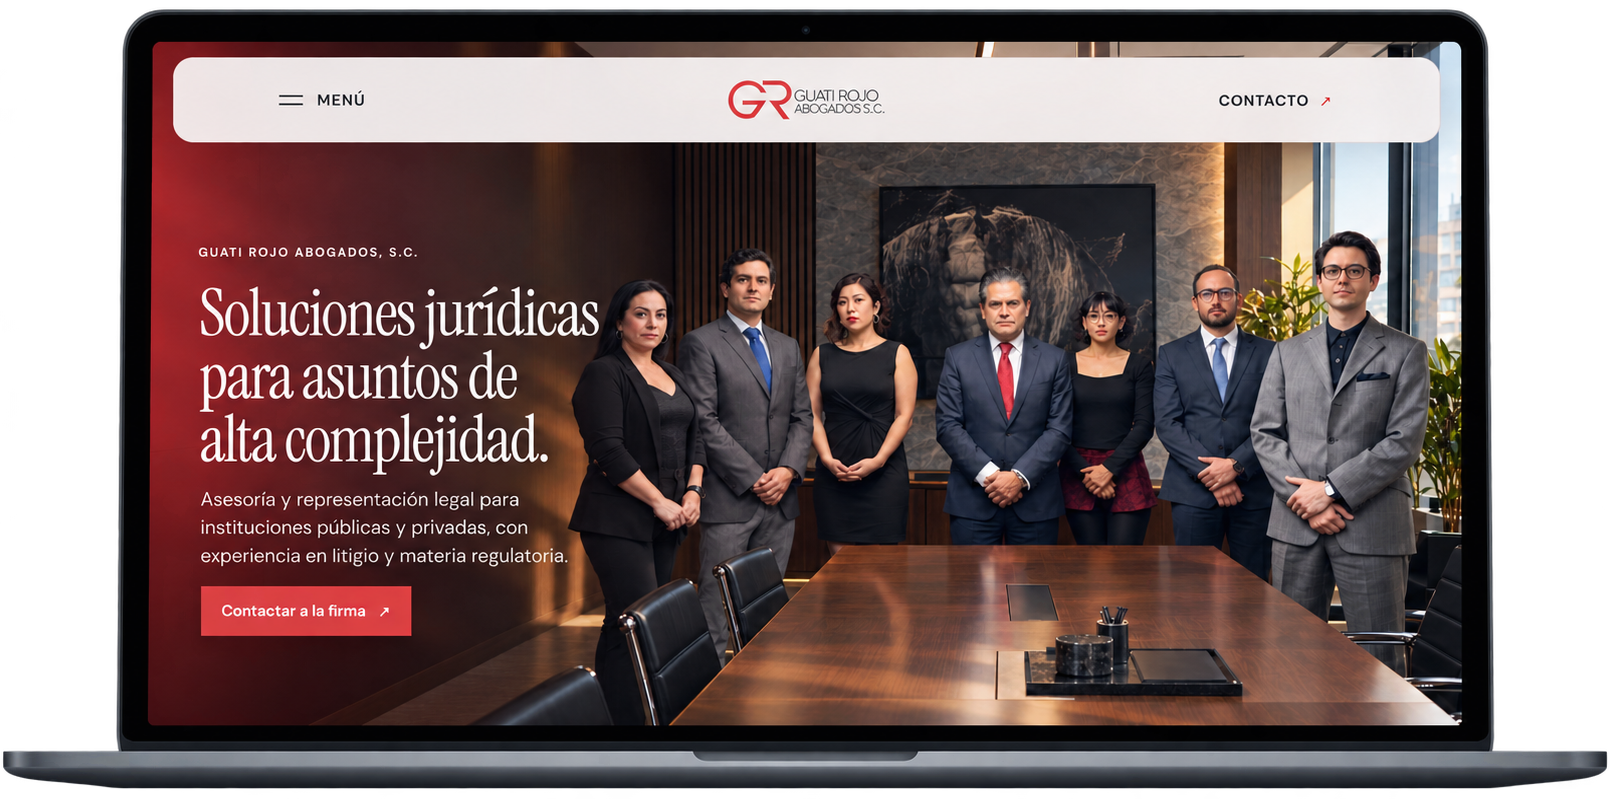
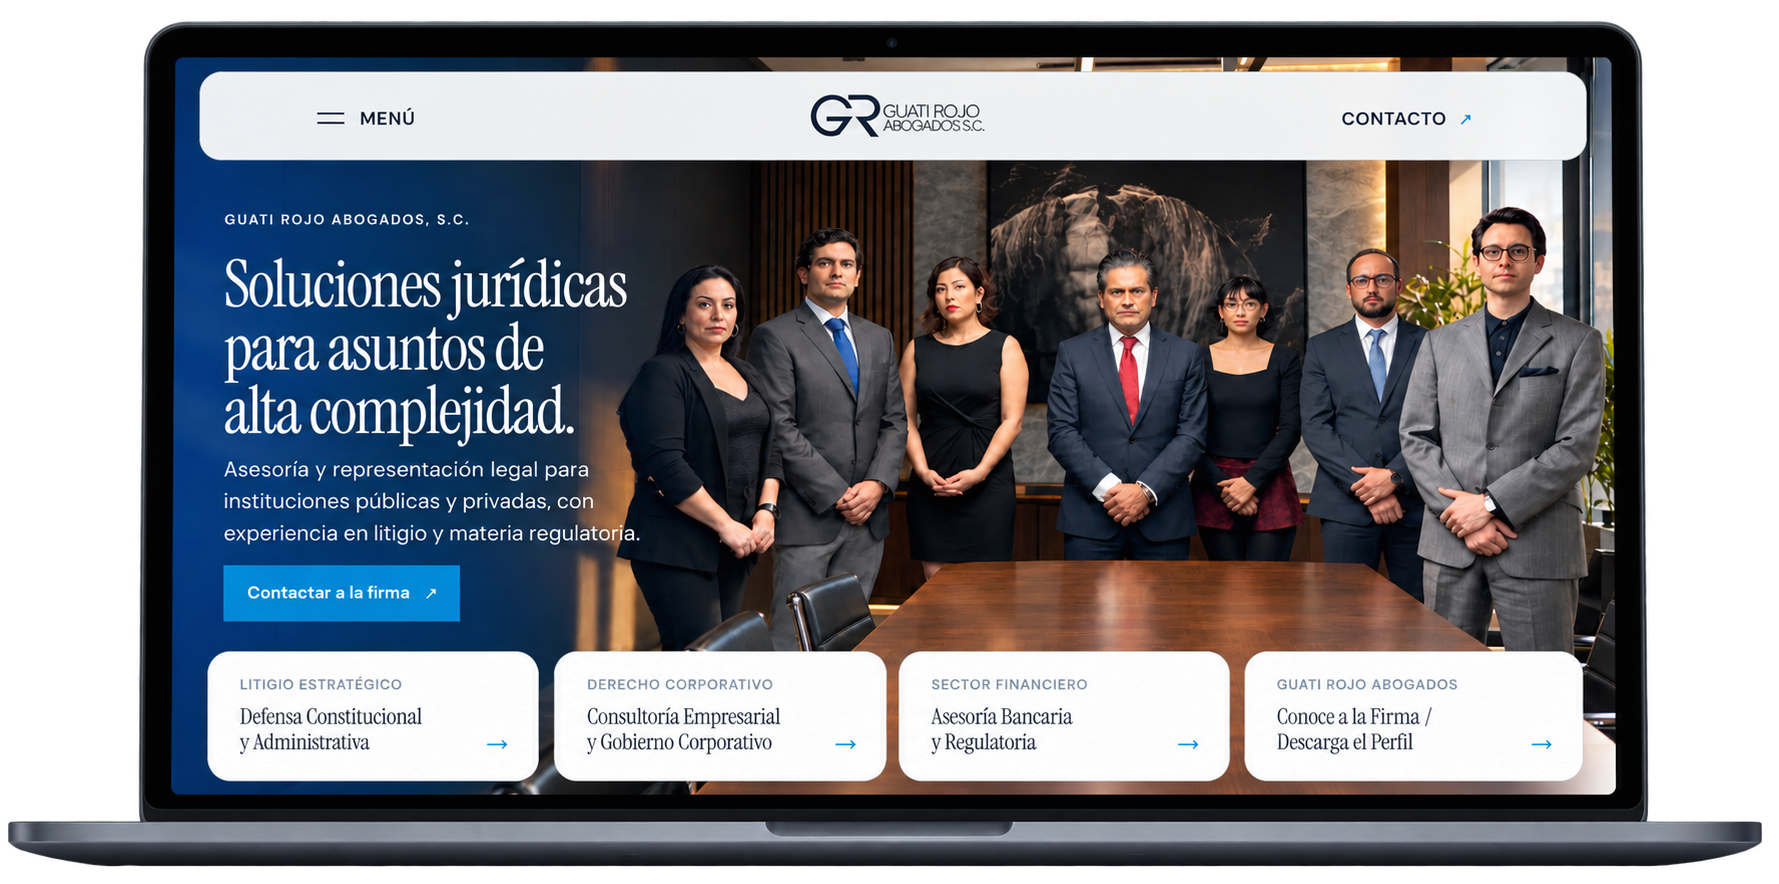
Update GRSS palette and mockups with content-based cache versions

diff --git a/src/components/guati-rojo/GuatiRojoProposal.jsx b/src/components/guati-rojo/GuatiRojoProposal.jsx
@@ -57,13 +57,13 @@ function Opportunity() {
 
 function Mockup({ kind, number, label, file }) {
   return <figure className={kind === 'desktop' ? styles.slotDesktop : styles.slotMobile} data-kind={kind}>
-    <img className={styles.mockupImage} src={`/assets/grss/${file}`} alt={`Captura ${label.toLowerCase()} de la demo publicada de GRSS`} loading="lazy" />
+    <img className={styles.mockupImage} src={`/assets/grss/${file}?v=${__GRSS_ASSET_VERSIONS__[file]}`} alt={`Captura ${label.toLowerCase()} de la demo publicada de GRSS`} loading="lazy" />
     <figcaption><span>{number}</span> / {label}</figcaption>
   </figure>;
 }
 
 function VisualDirection({ demoHref }) {
-  const palette = [['Rojo GRSS', '#C83F42', true], ['Blanco', '#FFFFFF', false], ['Gris suave', '#F5F5F3', false], ['Grafito', '#242629', true]];
+  const palette = [['Azul pizarra', '#0F172A', true], ['Blanco', '#FFFFFF', false], ['Gris suave', '#F5F5F3', false], ['Azul corporativo', '#0284C7', true]];
   return <Section id="direccion-visual" labelledBy="direccion-title" className={styles.direction}><div>
     <div className={styles.directionHero} data-stage>
       <div className={styles.directionIntro}>

diff --git a/vite.config.js b/vite.config.js
@@ -1,8 +1,21 @@
+import { createHash } from 'node:crypto';
+import { readFileSync, readdirSync } from 'node:fs';
 import { defineConfig } from 'vite';
 import react from '@vitejs/plugin-react';
 
+// Refresh URLs automatically when a mockup is replaced under the same filename.
+const grssAssets = new URL('./public/assets/grss/', import.meta.url);
+const grssAssetVersions = Object.fromEntries(
+  readdirSync(grssAssets, { withFileTypes: true })
+    .filter((entry) => entry.isFile())
+    .map(({ name }) => [name, createHash('sha256').update(readFileSync(new URL(name, grssAssets))).digest('hex').slice(0, 12)]),
+);
+
 export default defineConfig({
   plugins: [react()],
+  define: {
+    __GRSS_ASSET_VERSIONS__: JSON.stringify(grssAssetVersions),
+  },
   build: {
     chunkSizeWarningLimit: 600,
   },
